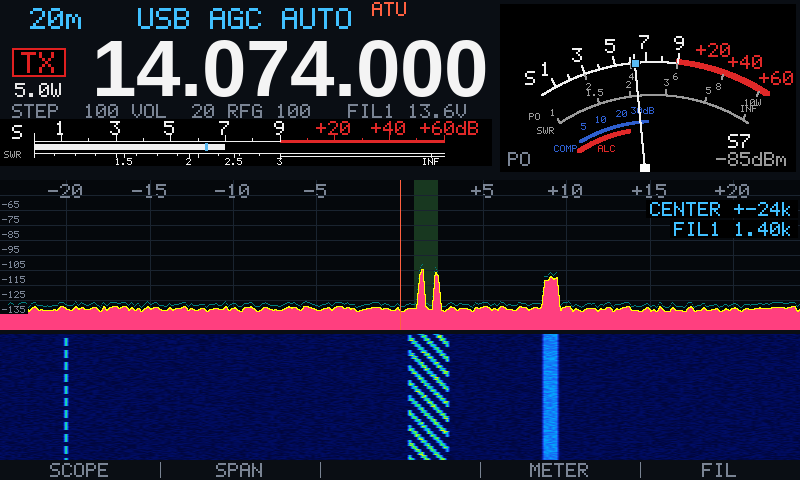
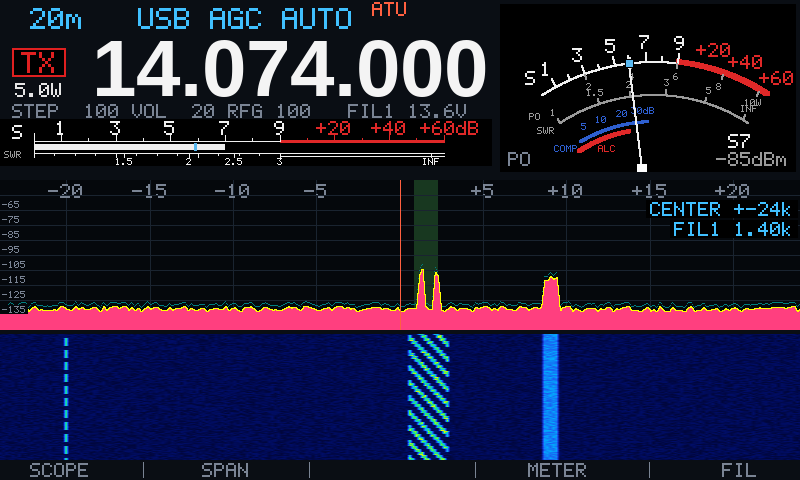
x6100_trx: F-key tags at per-key positions (F3 left of centre, F1 / F5 further out)

diff --git a/tools/x6100_trx.c b/tools/x6100_trx.c
@@ -1023,6 +1023,10 @@ static bool on_knob(rx_t *rx, input_t in, int value)
 #define WF_Y		(SPEC_Y + SPEC_H + 4)
 #define TAG_H		20		/* F1-F5 tags along the bottom edge */
 #define WF_H(lcd)	((lcd)->h - WF_Y - TAG_H)
+
+// Tag centre x above F1-F5 (screen 800 px); F3 slightly left of centre, F1 / F5
+// further out than a 160 px grid
+static const int g_tag_x[5] = { 60, 226, 392, 558, 740 };
 #define DISP_MS		70
 #define SPEC_DB_MIN	-130.0f
 #define SPEC_DB_MAX	-30.0f
@@ -1993,22 +1997,22 @@ static void draw_screen(screen_t *scr, const rx_t *rx, bool new_line)
 	x6100_lcd_text(lcd, INFO_COL_FIL, INFO_Y, 2, s, SCR_DIM);
 
 	//
-	// F1-F5 tags along the bottom, one 160 px cell above each key, centred:
-	// the key's function (its current value is shown elsewhere on screen)
+	// F1-F5 tags along the bottom, centred above each key. The keys are not on
+	// a 160 px grid: F3 sits a little left of the screen centre and the row is
+	// wider than the screen thirds suggest. Dividers halfway between the tags.
+	// Tune g_tag_x[] by eye on the radio.
 	//
 	{
 		static const char *tag[5] = { "SCOPE", "SPAN", "", "METER", "FIL" };
-		const int cw = W / 5, y = lcd->h - TAG_H;
+		const int y = lcd->h - TAG_H;
 
 		x6100_lcd_fill(lcd, 0, y, W, TAG_H, SCR_BG);
 
 		for (int i = 0; i < 5; i++) {
-			int x = i * cw;
-
-			x6100_lcd_text(lcd, x + (cw - x6100_lcd_text_width(tag[i], 2)) / 2, y + 3, 2, tag[i], SCR_DIM);
+			x6100_lcd_text(lcd, g_tag_x[i] - x6100_lcd_text_width(tag[i], 2) / 2, y + 3, 2, tag[i], SCR_DIM);
 
 			if (i > 0)
-				x6100_lcd_fill(lcd, x, y + 2, 1, TAG_H - 4, SCR_DIM);
+				x6100_lcd_fill(lcd, (g_tag_x[i - 1] + g_tag_x[i]) / 2, y + 2, 1, TAG_H - 4, SCR_DIM);
 		}
 	}
 
